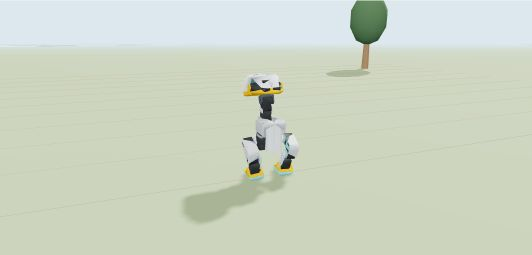
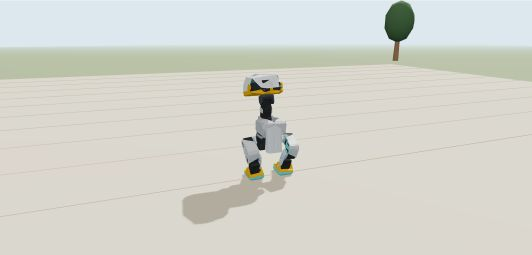
Improve MicroDuck surface rendering

diff --git a/v2/css/robot-viewer.js b/v2/css/robot-viewer.js
@@ -22,7 +22,9 @@ export class RobotViewer {
     }));
     const viewer = new RobotViewer(canvas, simulation, assets);
     try {
-      viewer.disposeGround = await addIsaacLabGround(viewer.scene, simulation.manifest.isaacLabDemo.groundHeight || 0);
+      if (viewer.demo.scene !== 'courtyard') {
+        viewer.disposeGround = await addIsaacLabGround(viewer.scene, simulation.manifest.isaacLabDemo.groundHeight || 0);
+      }
       return viewer;
     } catch (error) {
       viewer.dispose();
@@ -50,22 +52,25 @@ export class RobotViewer {
     this.orbit = new OrbitCamera(canvas, this.camera, this.demo.cameraAzimuth ?? (this.isManipulation ? -2.2 : Math.PI),
       this.isManipulation ? 0.45 : 0.28, this.demo.cameraRadius || (this.isAnymal ? 2.4 : 3.0));
 
-    this.scene.add(new THREE.HemisphereLight('#ffffff', '#acb9be', 2.2));
-    const key = new THREE.DirectionalLight('#ffffff', 3.0);
+    const microduck = this.demo.kind === 'microduck';
+    this.scene.add(new THREE.HemisphereLight('#ffffff', '#acb9be', microduck ? 1.3 : 2.2));
+    const key = new THREE.DirectionalLight('#ffffff', microduck ? 2.5 : 3.0);
     key.position.set(3, 5, 4);
     key.castShadow = true;
     key.shadow.mapSize.set(1024, 1024);
-    key.shadow.camera.left = -2.5;
-    key.shadow.camera.right = 2.5;
-    key.shadow.camera.top = 2.5;
-    key.shadow.camera.bottom = -2.5;
+    const shadowExtent = microduck ? 0.75 : 2.5;
+    key.shadow.camera.left = -shadowExtent;
+    key.shadow.camera.right = shadowExtent;
+    key.shadow.camera.top = shadowExtent;
+    key.shadow.camera.bottom = -shadowExtent;
     key.shadow.camera.near = 0.1;
     key.shadow.camera.far = 12;
-    key.shadow.bias = -0.0001;
+    key.shadow.bias = microduck ? -0.000005 : -0.0001;
+    key.shadow.normalBias = microduck ? 0.0003 : 0;
     this.key = key;
     this.scene.add(key);
     this.scene.add(key.target);
-    const fill = new THREE.DirectionalLight('#d7e6ed', 1.4);
+    const fill = new THREE.DirectionalLight('#d7e6ed', microduck ? 0.55 : 1.4);
     fill.position.set(-3, 2, -2);
     this.scene.add(fill);
 
@@ -97,7 +102,9 @@ export class RobotViewer {
         const name = visual.color.join(',');
         if (!materials[name]) {
           materials[name] = new THREE.MeshStandardMaterial({
-            color: new THREE.Color().setRGB(...visual.color), roughness: 0.6, metalness: 0.05,
+            color: new THREE.Color().setRGB(...visual.color),
+            roughness: microduck ? 0.5 : 0.6, metalness: microduck ? 0 : 0.05,
+            flatShading: microduck,
           });
           this.materials.push(materials[name]);
         }
@@ -126,32 +133,38 @@ export class RobotViewer {
     this.scene.background.set('#dce8ed');
     this.scene.fog = new THREE.Fog('#dce8ed', 4, 12);
     const grassMaterial = new THREE.MeshStandardMaterial({ color: '#9fac87', roughness: 1 });
-    const grassGeometry = new THREE.PlaneGeometry(20, 20);
+    const lawn = new THREE.Shape([
+      new THREE.Vector2(-10, -10), new THREE.Vector2(10, -10),
+      new THREE.Vector2(10, 10), new THREE.Vector2(-10, 10),
+    ]);
+    lawn.holes.push(new THREE.Path([
+      new THREE.Vector2(-2.5, -2.5), new THREE.Vector2(-2.5, 2.5),
+      new THREE.Vector2(2.5, 2.5), new THREE.Vector2(2.5, -2.5),
+    ]));
+    const grassGeometry = new THREE.ShapeGeometry(lawn);
     const grass = new THREE.Mesh(grassGeometry, grassMaterial);
     grass.rotation.x = -Math.PI / 2;
-    grass.position.y = 0.0001;
     grass.receiveShadow = true;
     this.scene.add(grass);
     this.materials.push(grassMaterial);
     this.geometries.push(grassGeometry);
     const material = new THREE.MeshStandardMaterial({ color: '#ddd4bf', roughness: 1 });
-    const geometry = new THREE.PlaneGeometry(5, 3.4);
+    const geometry = new THREE.PlaneGeometry(5, 5);
     const court = new THREE.Mesh(geometry, material);
     court.rotation.x = -Math.PI / 2;
-    court.position.y = 0.0002;
     court.receiveShadow = true;
     this.scene.add(court);
     this.materials.push(material);
     this.geometries.push(geometry);
     const lines = new THREE.GridHelper(5, 20, '#bfb299', '#cbbfa9');
-    lines.position.y = 0.0004;
+    lines.position.y = 0.001;
     this.scene.add(lines);
     this.geometries.push(lines.geometry);
     this.materials.push(lines.material);
     const green = new THREE.MeshStandardMaterial({ color: '#637e5a', roughness: 1 });
     const wood = new THREE.MeshStandardMaterial({ color: '#aa8565', roughness: 0.9 });
     this.materials.push(green, wood);
-    for (const [x, z] of [[-2.2, -1.9], [2.2, -1.9], [-2.2, 1.9], [2.2, 1.9]]) {
+    for (const [x, z] of [[-2.9, -2.9], [2.9, -2.9], [-2.9, 2.9], [2.9, 2.9]]) {
       const trunkGeometry = new THREE.CylinderGeometry(0.025, 0.035, 0.4, 8);
       const trunk = new THREE.Mesh(trunkGeometry, wood);
       trunk.position.set(x, 0.2, z);

diff --git a/v2/README.md b/v2/README.md
@@ -17,7 +17,9 @@ Walk forward and Stand buttons provide useful starting commands. Shift-drag the 
 or enable Mouse push, to apply a bounded horizontal force; releasing the pointer removes it.
 
 The courtyard uses inexpensive procedural scenery over the task's flat ground.
-The trees are decoration. The robot uses the published whole-body collision variant
+Its paving and lawn share an edge without overlapping ground layers. The robot keeps
+the asset's material colors and flat CAD shading. The trees are decoration.
+The robot uses the published whole-body collision variant
 so pushes and falls include body contacts. Its geometry, mass, inertia, and BAM
 voltage/friction/delay kernels come from the native asset and task.
 This prototype uses MJWarp's built-in collision path: the current exporter does not
